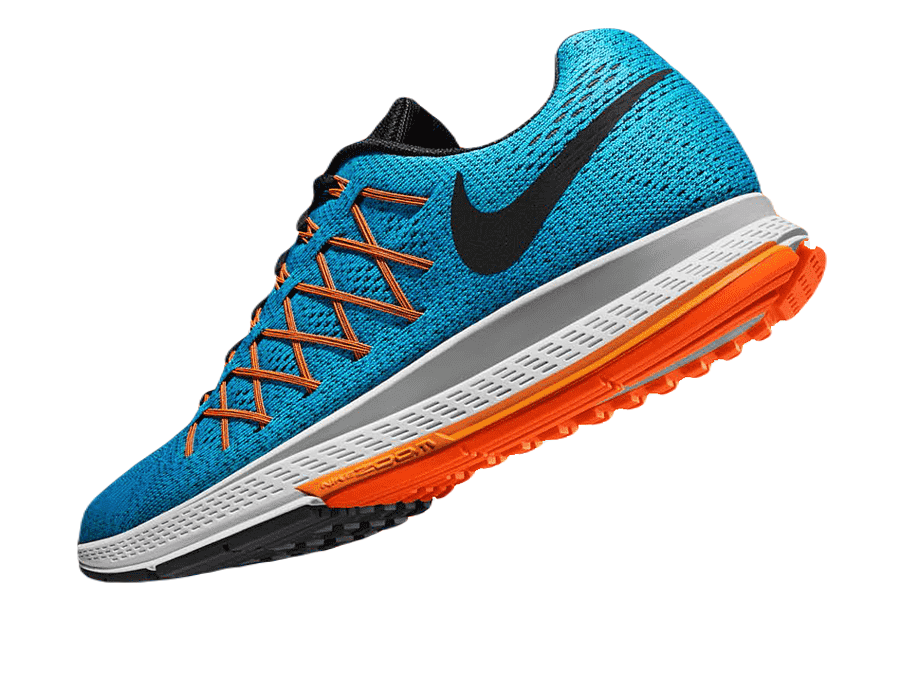
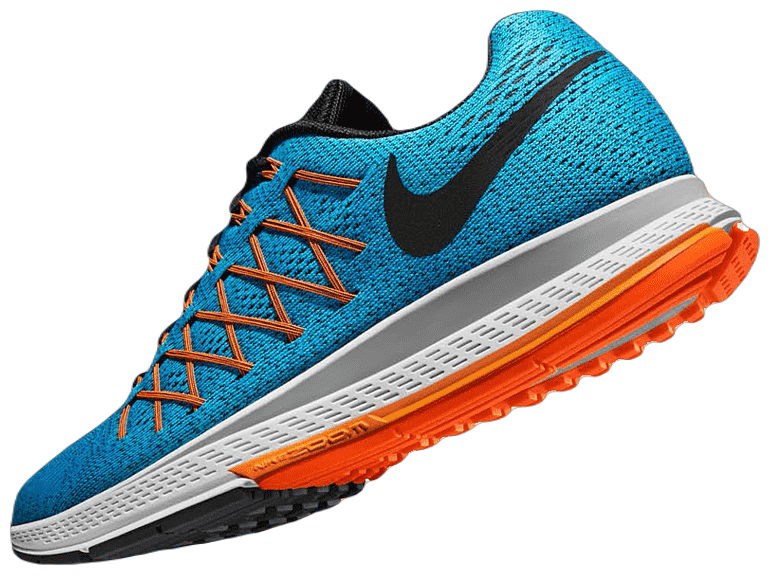
02

diff --git a/style.css b/style.css
@@ -1,0 +1,102 @@
+@import url('https://fonts.googleapis.com/css2?family=Poppins:wght@200;300;400;500;600;700;800;900&display=swap');
+
+*{
+    padding: 0;
+    margin: 0;
+    font-family: "Poppins", sans-serif;
+}
+
+body{
+    min-height: 100vh;
+    display: flex;
+    justify-content: center;
+    align-items: center;
+    background: #151515;
+}
+
+.container{
+    position: relative;
+    display: flex;
+    justify-content: center;
+    align-items: center;
+    width: 100%;
+    height: 100vh;
+}
+
+.product .product-card{
+    z-index: 1;
+    background: #1D212B;
+    position: relative;
+    width: 300px;
+    height: 400px;
+    margin: 40px;
+    border-radius: 10px;
+}
+
+.product .product-card:before{
+    content:'';
+    background: rgba(255, 255, 255, 0.1);
+    position: absolute;
+    display: block;
+    top: 0;
+    left: 0;
+    width: 50%;
+    height: 100%;
+    border-top-left-radius: 10px;
+    border-bottom-left-radius: 10px;
+}
+
+.product .product-card .product-img{
+    z-index: 1;
+    position: absolute;
+    max-width: 350px;
+    top: 30%;
+    left: 30%;
+    transform: translate(-50%, -50%);
+}
+
+.product .product-card .name{
+    position: absolute;
+    z-index: 2;
+    color: #fff;
+    width: 100%;
+    text-align: center;
+    bottom: 130px;
+    font-size: 20px;
+    letter-spacing: 1px;
+}
+
+.product .product-card .price{
+z-index: 2;
+color: #fff;
+position: absolute;
+width: 100%;
+text-align: center;
+bottom: 80px;
+font-size: 30px;
+font-weight: 300;
+}
+
+.product .product-card .popup-btn{
+    z-index: 2;
+    color: #fff;
+    background: #555;
+    position: absolute;
+    bottom: 20px;
+    left: 50%;
+    transform: translateX(-50%);    
+    font-size: 14px;
+    text-decoration: none;
+    letter-spacing: 1px;
+    padding: 10px 15px;
+    border-radius: 20px;
+    cursor: pointer;
+}
+
+/* popup view */
+
+.product .popup-view{
+    z-index: 2;
+    background: rgba(255, 255, 255, 0.5);
+    position: fixed;
+}

diff --git a/index.html b/index.html
@@ -10,7 +10,7 @@
     <link rel="stylesheet" href="https://cdnjs.cloudflare.com/ajax/libs/font-awesome/6.2.0/css/all.min.css" integrity="sha512-xh6O/CkQoPOWDdYTDqeRdPCVd1SpvCA9XXcUnZS2FmJNp1coAFzvtCN9BmamE+4aHK8yyUHUSCcJHgXloTyT2A==" crossorigin="anonymous" referrerpolicy="no-referrer" />
 
 </head>
-<body>    
+<body>
 
     <div class="container">
         <div class="product">
@@ -18,7 +18,22 @@
                 <h2 class="name">Nike shoe</h2>
                 <span class="price">$134.99</span>
                 <a class="popup-btn">Quick View</a>
-                <img src="./images/1.png" alt="">
+                <img width="450" src="./images/3.png" alt="">
+            </div>
+            <div class="popup-view">
+                <div class="popoup-card">
+                    <a><i class="fas fa-items close-btn"></i></a>
+                    <div class="product-img">
+                        <img width="450"  src="./images/3.png" alt="">
+                    </div>
+                    <div class="info">
+                        <h2>Nike shoe<br><span>Men's Sport</span></h2>
+                        <p>Lorem ipsum, dolor sit amet consectetur adipisicing elit. Harum, assumenda excepturi incidunt atque dolore commodi corporis ratione. Odio maxime reiciendis placeat error accusamus assumenda praesentium animi ipsam, illum porro eos!</p>
+                        <span class="price">$134.99</span>
+                        <a href="#" class="add-cart-btn">Add to cart</a>
+                        <a href="#" class="add-wish">Add to wishlist</a>
+                    </div>
+                </div>
             </div>
         </div>
     </div>
